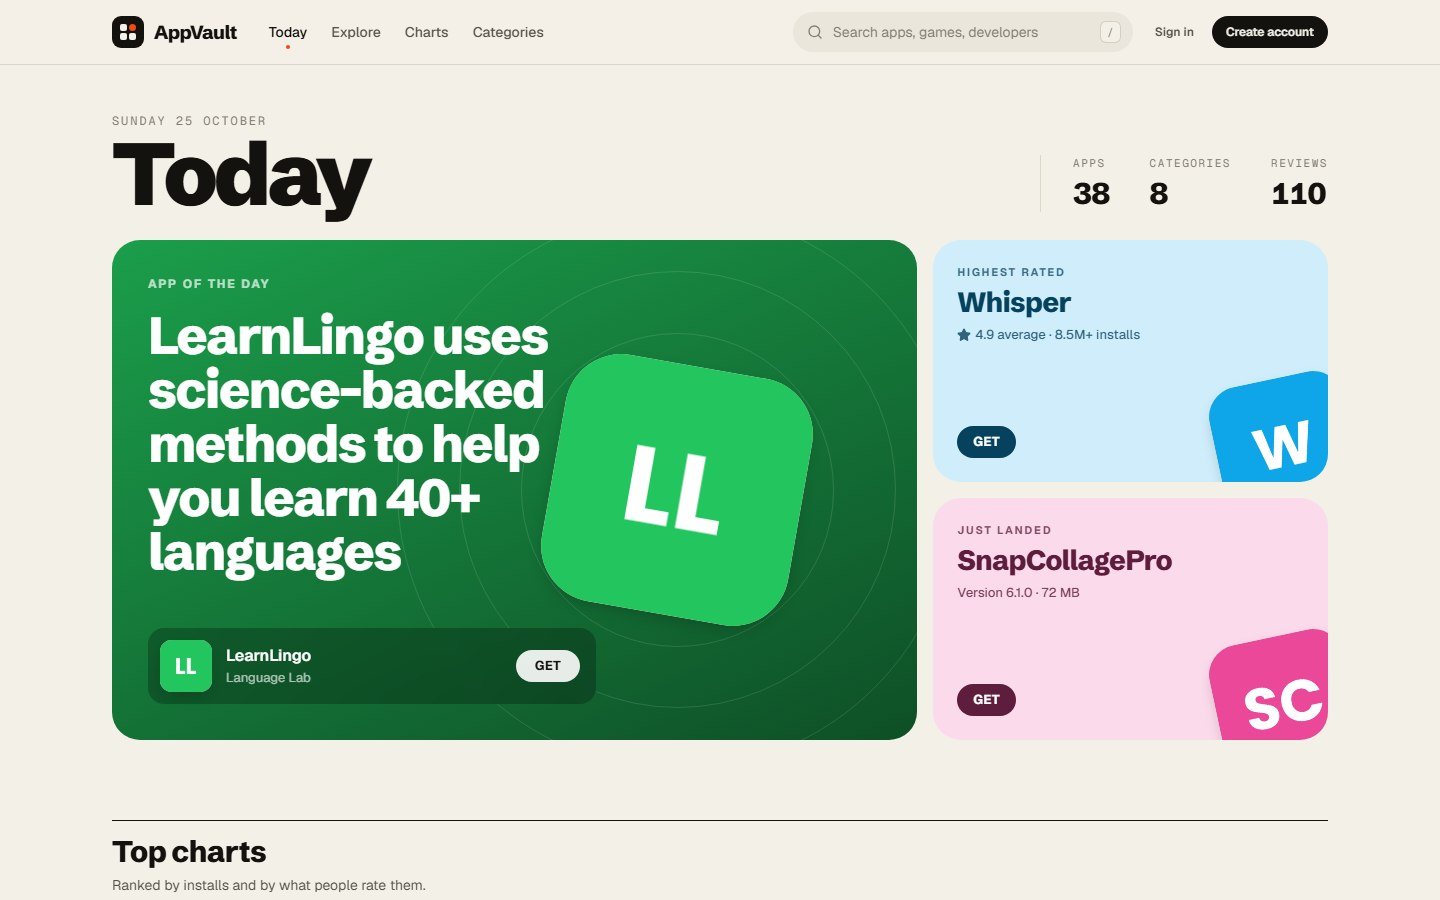
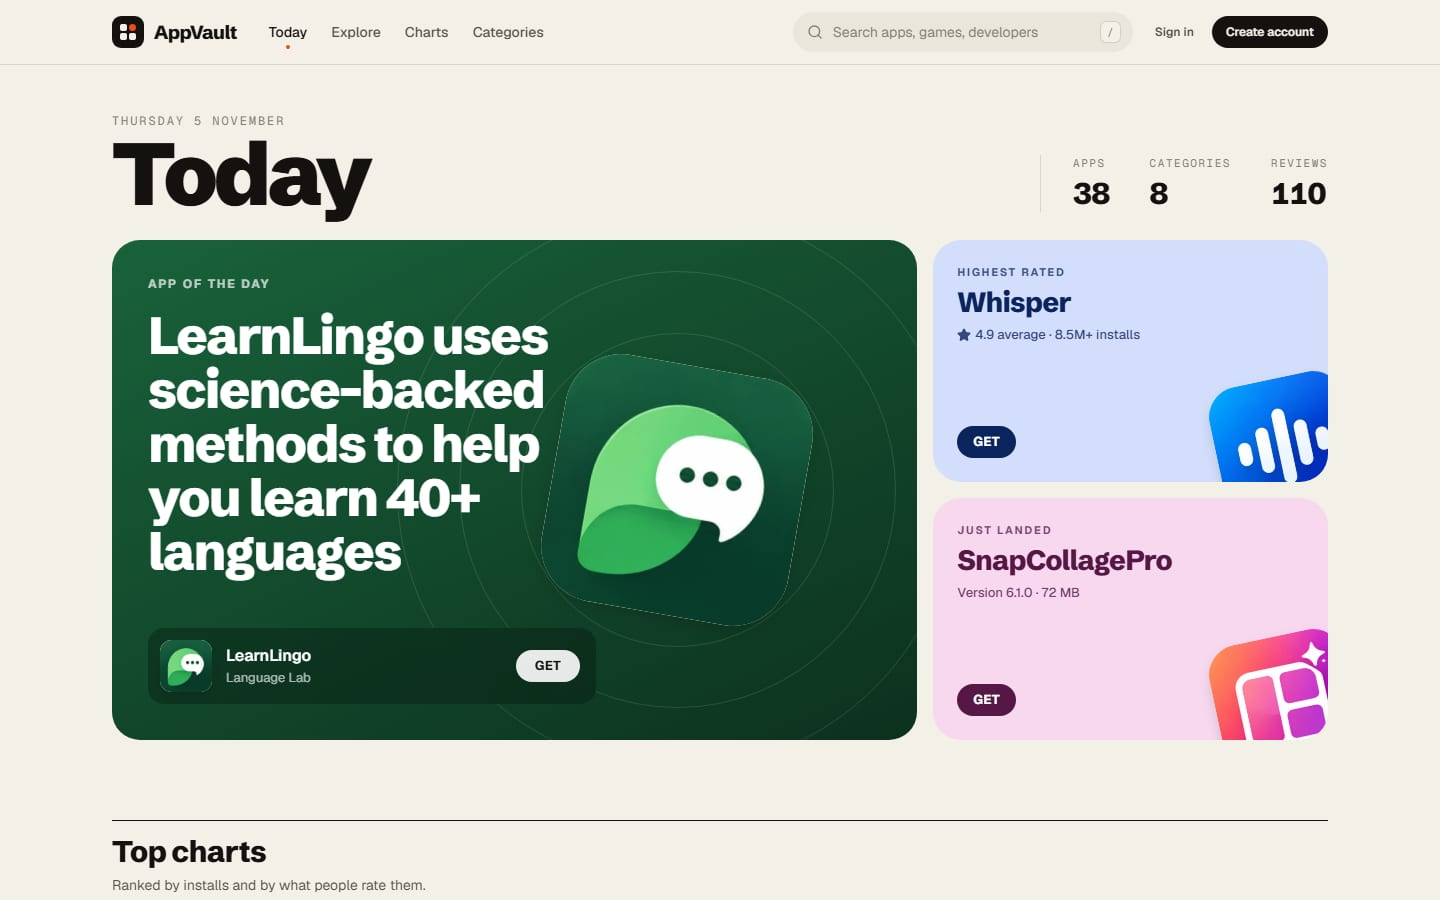
Refresh work thumbnails; rename Lumina Dental to Nacre and Luxe Estate to Velmont
- New 1440x900 thumbnails from the live AppVault, Nacre Dental, Velmont and Lumina sites
- Nacre Dental Studio and Velmont Private Estates: new names, live URLs and alt text
- Velmont description and tech no longer claim WebGL (the live site has none)

diff --git a/lib/projects.ts b/lib/projects.ts
@@ -43,32 +43,32 @@ export const projects: Project[] = [
     glowColor: "orange",
   },
   {
-    slug: "lumina-dental",
-    name: "Lumina Dental Studio",
+    slug: "nacre-dental",
+    name: "Nacre Dental Studio",
     platform: "WEB",
     category: "Concept",
     description:
       "Dental clinic website with treatments, doctors, reviews and WhatsApp booking.",
-    thumbnail: "/projects/lumina-dental.jpg",
-    thumbnailAlt: "Lumina Dental Studio clinic website homepage",
+    thumbnail: "/projects/nacre-dental.jpg",
+    thumbnailAlt: "Nacre Dental Studio clinic website homepage with a treatment room photo",
     // TODO: replace with subdomain of custom domain once set up
-    liveUrl: "https://lumina-dental-studio-drab.vercel.app/",
+    liveUrl: "https://nacre-dental-studio.vercel.app/",
     tech: ["Next.js", "Tailwind", "Framer Motion"],
     year: "2026",
     glowColor: "blue",
   },
   {
-    slug: "luxe-estate",
-    name: "Luxe Estate",
+    slug: "velmont",
+    name: "Velmont Private Estates",
     platform: "WEB",
     category: "Concept",
     description:
-      "Luxury real estate site with WebGL shaders and animated hero.",
-    thumbnail: "/projects/luxe-estate.jpg",
-    thumbnailAlt: "Luxe Estate luxury real estate website homepage",
+      "Luxury real estate site for private residences, with a cinematic hero and private viewing enquiries.",
+    thumbnail: "/projects/velmont.jpg",
+    thumbnailAlt: "Velmont Private Estates homepage with a snow-covered alpine house",
     // TODO: replace with subdomain of custom domain once set up
-    liveUrl: "https://lux-estate-one.vercel.app/",
-    tech: ["Next.js", "Framer Motion", "WebGL", "Tailwind"],
+    liveUrl: "https://velmont-private-estates.vercel.app/",
+    tech: ["Next.js", "Framer Motion", "Tailwind"],
     year: "2025",
     glowColor: "orange",
   },
@@ -80,7 +80,7 @@ export const projects: Project[] = [
     description:
       "Play Store-style app marketplace with auth, DB, and 11 API routes.",
     thumbnail: "/projects/appvault.jpg",
-    thumbnailAlt: "AppVault app marketplace homepage",
+    thumbnailAlt: "AppVault app marketplace Today page with the app of the day",
     // TODO: replace with subdomain of custom domain once set up
     liveUrl: "https://appvault-xi.vercel.app/",
     tech: ["Next.js 14", "Prisma", "NextAuth", "TypeScript"],
@@ -95,7 +95,7 @@ export const projects: Project[] = [
     description:
       "AI SaaS landing page for a writing, design, and automation tool.",
     thumbnail: "/projects/lumina.jpg",
-    thumbnailAlt: "Lumina AI writing studio landing page",
+    thumbnailAlt: "Lumina AI writing studio landing page with a large VOICE headline",
     // TODO: replace with subdomain of custom domain once set up
     liveUrl: "https://lumina-saas-ai.vercel.app/",
     tech: ["React", "Express", "Figma"],
